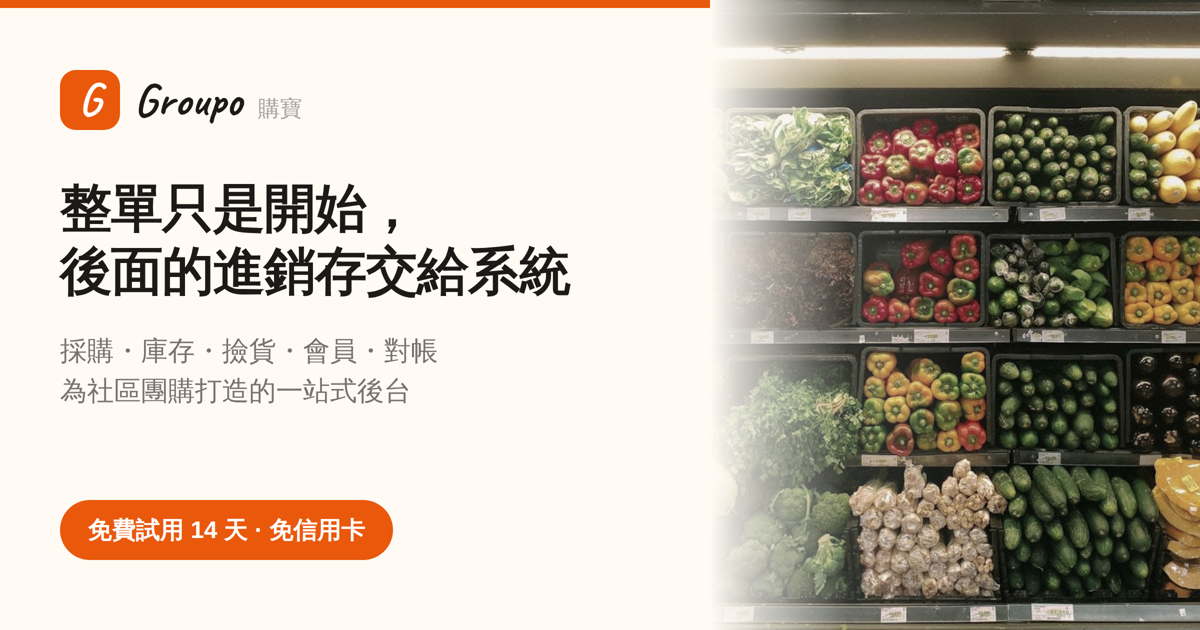
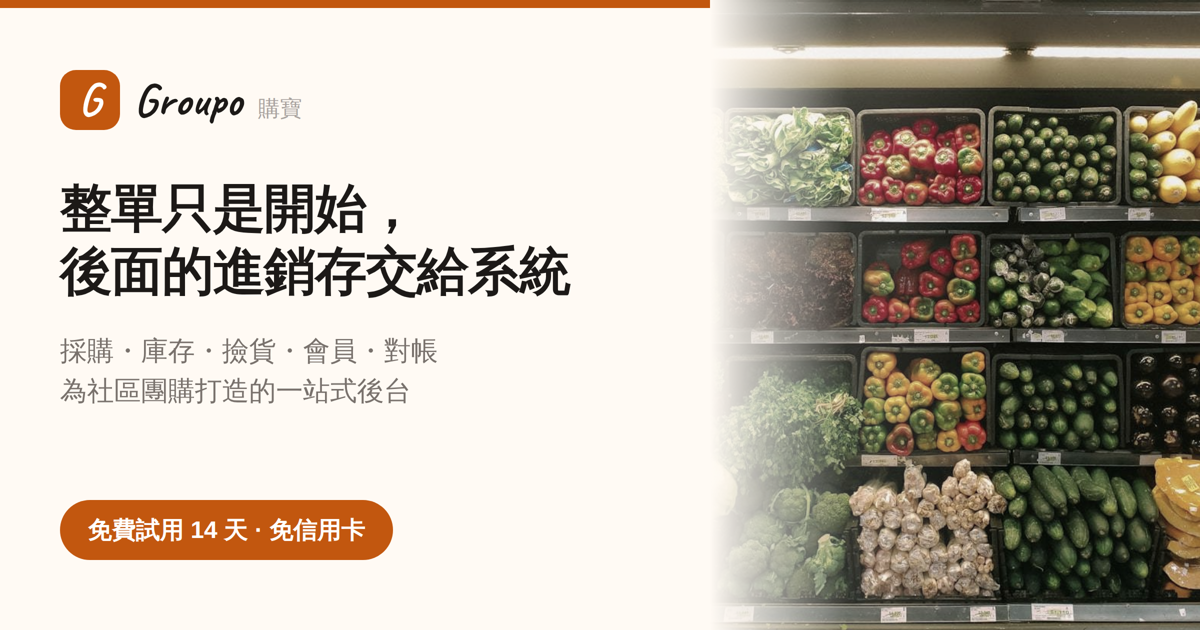
feat: 推廣頁依模組計費（含 +1 整單）+ 主色微調為燒橘 (#445)
* feat: 定價加「依模組計費」選項

- 基礎方案 NT$399/月（開團・訂單・取貨）+ 六個加購模組
  （採購/庫存WMS/會員錢包/財務月結/通知行銷/多店）
- 全部加購約 NT$1,449，導向 NT$799 全包年繳最划算
- 註：模組單價為示意數字，待實際定價確認

https://claude.ai/code/session_01Q8eHsgQDL8c3QY17jb2vzR

* fix: 模組計費重畫邊界 — 基礎含完整出貨流程，加購只放可選能力

- 修正破綻：出貨鏈（開團→採購→庫存→撿貨→出貨→取貨）不可拆，
  否則只買基礎會生不出撿貨單、出不了貨
- 基礎方案 NT$599 = 完整能出貨流程（含採購/庫存/撿貨派貨）
- 加購只放與出貨無關：會員錢包點數/財務月結/通知行銷/多店
- 基礎用橘框強調，明示「不管加不加購都跑得動」

https://claude.ai/code/session_01Q8eHsgQDL8c3QY17jb2vzR

* feat: 加購模組新增「LINE 群組／FB 社團 +1 整單」

- 自動爬 LINE 群組/FB 社團留言成單（競品招牌功能，在這只是加購）
- 與出貨無關、不買也能照常出貨，放加購合理
- 正式方案標明含 +1 整單；全部加購約 NT$1,299，導向 NT$799 全包
- 加購列支援 note 副標

https://claude.ai/code/session_01Q8eHsgQDL8c3QY17jb2vzR

* feat: 主色微調為燒橘 #C2570F，擺脫蝦皮/淘寶的紅橘感

- globals.css 新增獨立 brand 色階（#C2570F 燒橘，偏離電商紅橘）
  後台狀態色仍用 Tailwind orange-*，兩者互不影響
- welcome/signup/login/Brand 的 orange-* 改 brand-*
- favicon groupo-mark.svg、OG 縮圖 og.png 一併換新色

https://claude.ai/code/session_01Q8eHsgQDL8c3QY17jb2vzR

---------

Changed region(s): [[0.0308, 0.7841, 0.3392, 0.9048], [0.0, 0.0, 0.5858, 0.0302], [0.0308, 0.0905, 0.1233, 0.2111]]

diff --git a/apps/admin/src/app/welcome/page.tsx b/apps/admin/src/app/welcome/page.tsx
@@ -95,7 +95,7 @@ const PLANS: { name: string; price: string; note: string; points: string[]; high
     name: "正式方案",
     price: "NT$799",
     note: "／月（年繳）・單月 NT$999",
-    points: ["年繳省 NT$2,400", "訂單數量與金額不限", "開團、採購、庫存、財務全模組", "一個總倉＋門市・Email 支援"],
+    points: ["年繳省 NT$2,400", "全模組（含 LINE／FB +1 整單）", "訂單數量與金額不限", "一個總倉＋門市・Email 支援"],
     highlight: true,
   },
   {
@@ -105,6 +105,23 @@ const PLANS: { name: string; price: string; note: string; points: string[]; high
     points: ["多門市與調撥", "加盟店分權與月結", "員工角色權限", "專人導入協助"],
     highlight: false,
   },
+];
+
+// 模組單買（基礎方案 + 按需加購）。
+// 基礎 = 完整「能出貨」流程（開團→採購→庫存→撿貨→出貨→取貨），不可拆；
+// 加購只放與出貨無關、真正可選的能力。⚠ 價格為示意數字，待實際定價確認。
+const MODULE_BASE = "NT$599";
+const MODULE_BASE_DESC = "開團・訂單・請購採購收貨・庫存・撿貨派貨・到店取貨";
+const MODULES: { name: string; price: string; note?: string }[] = [
+  {
+    name: "LINE 群組／FB 社團 +1 整單",
+    price: "+NT$300",
+    note: "自動爬留言成單，別人的招牌功能在這只是加購",
+  },
+  { name: "會員・錢包・點數", price: "+NT$150" },
+  { name: "財務・月結・應收應付", price: "+NT$150" },
+  { name: "通知・行銷推播", price: "+NT$100" },
+  { name: "多店・加盟分權", price: "專人報價" },
 ];
 
 const FAQS: { q: string; a: string }[] = [
@@ -128,7 +145,7 @@ const FAQS: { q: string; a: string }[] = [
 
 function Check() {
   return (
-    <svg viewBox="0 0 20 20" fill="none" stroke="currentColor" strokeWidth={2} className="mt-0.5 h-4 w-4 shrink-0 text-orange-600" aria-hidden>
+    <svg viewBox="0 0 20 20" fill="none" stroke="currentColor" strokeWidth={2} className="mt-0.5 h-4 w-4 shrink-0 text-brand-600" aria-hidden>
       <path strokeLinecap="round" strokeLinejoin="round" d="m4 10.5 3.5 3.5L16 6" />
     </svg>
   );
@@ -138,7 +155,7 @@ function PrimaryCta({ children }: { children: React.ReactNode }) {
   return (
     <Link
       href="/signup"
-      className="inline-flex items-center justify-center rounded-md bg-orange-600 px-6 py-3 text-base font-medium text-white shadow-sm transition hover:bg-orange-700"
+      className="inline-flex items-center justify-center rounded-md bg-brand-600 px-6 py-3 text-base font-medium text-white shadow-sm transition hover:bg-brand-700"
     >
       {children}
     </Link>
@@ -161,7 +178,7 @@ export default function WelcomePage() {
             </Link>
             <Link
               href="/signup"
-              className="rounded-md bg-orange-600 px-3 py-1.5 font-medium text-white hover:bg-orange-700"
+              className="rounded-md bg-brand-600 px-3 py-1.5 font-medium text-white hover:bg-brand-700"
             >
               免費試用
             </Link>
@@ -184,7 +201,7 @@ export default function WelcomePage() {
           style={{ backgroundImage: `linear-gradient(to bottom, ${WARM_BG}, ${WARM_BG}eb 55%, ${WARM_BG}b3)` }}
         />
         <div className="relative mx-auto max-w-5xl px-6 pb-28 pt-20 sm:pb-40 sm:pt-28">
-          <p className="text-xs font-semibold uppercase tracking-[0.2em] text-orange-600">
+          <p className="text-xs font-semibold uppercase tracking-[0.2em] text-brand-600">
             社區團購・生鮮小舖 ERP
           </p>
           <h1 className="mt-4 max-w-2xl text-4xl font-bold leading-[1.15] tracking-tight sm:text-6xl">
@@ -216,7 +233,7 @@ export default function WelcomePage() {
             </p>
           </div>
           <div>
-            <h2 className="text-sm font-semibold uppercase tracking-wider text-orange-600">
+            <h2 className="text-sm font-semibold uppercase tracking-wider text-brand-600">
               我們從這裡開始
             </h2>
             <p className="mt-3 text-lg leading-relaxed text-stone-800">
@@ -236,7 +253,7 @@ export default function WelcomePage() {
               className="grid items-center gap-8 py-16 sm:grid-cols-2 sm:gap-14"
             >
               <div className={i % 2 === 1 ? "sm:order-2" : ""}>
-                <p className="text-xs font-semibold uppercase tracking-[0.18em] text-orange-600">
+                <p className="text-xs font-semibold uppercase tracking-[0.18em] text-brand-600">
                   {c.kicker}
                 </p>
                 <h3 className="mt-3 text-2xl font-semibold tracking-tight sm:text-3xl">{c.title}</h3>
@@ -260,7 +277,7 @@ export default function WelcomePage() {
                     style={MUTED}
                     className="aspect-[4/3] w-full object-cover"
                   />
-                  <div className="pointer-events-none absolute inset-0 bg-orange-900/[0.04]" />
+                  <div className="pointer-events-none absolute inset-0 bg-brand-900/[0.04]" />
                 </div>
               </div>
             </div>
@@ -298,14 +315,14 @@ export default function WelcomePage() {
               key={p.name}
               className={
                 p.highlight
-                  ? "rounded-xl border-2 border-orange-600 bg-white p-6 shadow-sm"
+                  ? "rounded-xl border-2 border-brand-600 bg-white p-6 shadow-sm"
                   : "rounded-xl border border-stone-200 bg-white p-6"
               }
             >
               <div className="flex items-center justify-between">
                 <h3 className="font-semibold">{p.name}</h3>
                 {p.highlight && (
-                  <span className="rounded-full bg-orange-600/10 px-2 py-0.5 text-[11px] font-medium text-orange-600">
+                  <span className="rounded-full bg-brand-600/10 px-2 py-0.5 text-[11px] font-medium text-brand-600">
                     最多人選
                   </span>
                 )}
@@ -324,6 +341,39 @@ export default function WelcomePage() {
               </ul>
             </div>
           ))}
+        </div>
+
+        {/* 模組單買 — 只需要部分功能時 */}
+        <div className="mt-8 rounded-xl border border-stone-200 bg-white p-6 sm:p-8">
+          <h3 className="text-lg font-semibold">只用得到部分功能？依模組計費</h3>
+          <div className="mt-4 rounded-lg bg-brand-50 px-4 py-3">
+            <div className="flex flex-wrap items-baseline gap-x-2">
+              <span className="font-semibold">基礎方案</span>
+              <span className="text-lg font-bold text-stone-900">{MODULE_BASE}</span>
+              <span className="text-xs text-stone-500">／月</span>
+            </div>
+            <p className="mt-1 text-xs text-stone-600">
+              {MODULE_BASE_DESC} —— 一套完整能出貨的流程，不管加不加購都跑得動。
+            </p>
+          </div>
+          <p className="mt-5 text-xs font-medium uppercase tracking-wider text-stone-400">依需求加購</p>
+          <div className="mt-2 grid gap-x-10 sm:grid-cols-2">
+            {MODULES.map((m) => (
+              <div
+                key={m.name}
+                className="flex items-center justify-between gap-3 border-b border-stone-100 py-2.5 text-sm"
+              >
+                <span className="min-w-0">
+                  <span className="text-stone-700">{m.name}</span>
+                  {m.note && <span className="mt-0.5 block text-xs text-stone-400">{m.note}</span>}
+                </span>
+                <span className="shrink-0 font-medium text-stone-900">{m.price}</span>
+              </div>
+            ))}
+          </div>
+          <p className="mt-5 text-xs text-stone-500">
+            全部加購約 NT$1,299／月；要全部直接選上方「正式方案」NT$799（年繳）最划算。
+          </p>
         </div>
       </section>
 

diff --git a/apps/admin/src/app/signup/page.tsx b/apps/admin/src/app/signup/page.tsx
@@ -15,7 +15,7 @@ import SpinButton from "@/components/SpinButton";
 const PAGE_BG = "#fdf1e6";
 
 const inputCls =
-  "w-full rounded-md border border-stone-300 bg-white px-3 py-2 text-sm text-stone-900 placeholder:text-stone-400 focus:border-orange-500 focus:outline-none";
+  "w-full rounded-md border border-stone-300 bg-white px-3 py-2 text-sm text-stone-900 placeholder:text-stone-400 focus:border-brand-500 focus:outline-none";
 
 export default function SignupPage() {
   const [companyName, setCompanyName] = useState("");
@@ -75,7 +75,7 @@ export default function SignupPage() {
           </p>
           <Link
             href="/login"
-            className="block w-full rounded-md bg-orange-600 px-3 py-2 text-center text-sm font-medium text-white transition hover:bg-orange-700"
+            className="block w-full rounded-md bg-brand-600 px-3 py-2 text-center text-sm font-medium text-white transition hover:bg-brand-700"
           >
             前往登入
           </Link>
@@ -150,7 +150,7 @@ export default function SignupPage() {
           <SpinButton
             type="submit"
             disabled={submitting}
-            className="w-full rounded-md bg-orange-600 px-3 py-2 text-sm font-medium text-white shadow-sm transition hover:bg-orange-700 disabled:opacity-50"
+            className="w-full rounded-md bg-brand-600 px-3 py-2 text-sm font-medium text-white shadow-sm transition hover:bg-brand-700 disabled:opacity-50"
           >
             {submitting ? "建立中…" : "開始免費試用"}
           </SpinButton>

diff --git a/apps/admin/src/app/login/page.tsx b/apps/admin/src/app/login/page.tsx
@@ -12,7 +12,7 @@ import SpinButton from "@/components/SpinButton";
 
 const PAGE_BG = "#fdf1e6";
 const inputCls =
-  "w-full rounded-md border border-stone-300 bg-white px-3 py-2 text-sm text-stone-900 focus:border-orange-500 focus:outline-none";
+  "w-full rounded-md border border-stone-300 bg-white px-3 py-2 text-sm text-stone-900 focus:border-brand-500 focus:outline-none";
 
 export default function LoginPage() {
   return (
@@ -97,7 +97,7 @@ function LoginForm() {
           <SpinButton
             type="submit"
             disabled={submitting}
-            className="w-full rounded-md bg-orange-600 px-3 py-2 text-sm font-medium text-white shadow-sm transition hover:bg-orange-700 disabled:opacity-50"
+            className="w-full rounded-md bg-brand-600 px-3 py-2 text-sm font-medium text-white shadow-sm transition hover:bg-brand-700 disabled:opacity-50"
           >
             {submitting ? "登入中…" : "登入"}
           </SpinButton>

diff --git a/apps/admin/src/components/Brand.tsx b/apps/admin/src/components/Brand.tsx
@@ -2,11 +2,11 @@
 // 標誌：橘底白色「G」，用 Caveat 字型（--font-script，layout 注入）渲染，
 //       和字標的 Groupo 字首完全一致；SVG <text> 隨容器尺寸自動縮放。
 // favicon 見 public/groupo-mark.svg（Caveat G 已轉成 path、不依賴字型）。
-// 主色 orange-600。固定淺暖色（不隨系統深色模式變化，對外行銷一致）。
+// 主色 brand-600。固定淺暖色（不隨系統深色模式變化，對外行銷一致）。
 
 export function GroupoMark({ className = "h-7 w-7" }: { className?: string }) {
   return (
-    <span className={`inline-flex shrink-0 items-center justify-center rounded-[28%] bg-orange-600 ${className}`}>
+    <span className={`inline-flex shrink-0 items-center justify-center rounded-[28%] bg-brand-600 ${className}`}>
       <svg viewBox="0 0 64 64" className="h-full w-full" aria-hidden>
         <text
           x="33"

diff --git a/apps/admin/src/app/globals.css b/apps/admin/src/app/globals.css
@@ -20,6 +20,21 @@
   --font-mono: var(--font-geist-mono);
 }
 
+/* 品牌主色（Groupo 購寶）— 燒橘 #C2570F，刻意偏離蝦皮/淘寶的紅橘。
+   只用於對外/入口頁（welcome/signup/login）與品牌元件；
+   後台狀態色仍用 Tailwind 內建 orange-*，兩者互不影響。 */
+@theme {
+  --color-brand-50:  #fcf3ec;
+  --color-brand-100: #f8e0cd;
+  --color-brand-200: #f0be97;
+  --color-brand-400: #d9783a;
+  --color-brand-500: #cb6320;
+  --color-brand-600: #c2570f;
+  --color-brand-700: #9f4711;
+  --color-brand-800: #7e3a13;
+  --color-brand-900: #683211;
+}
+
 body {
   background: var(--background);
   color: var(--foreground);
